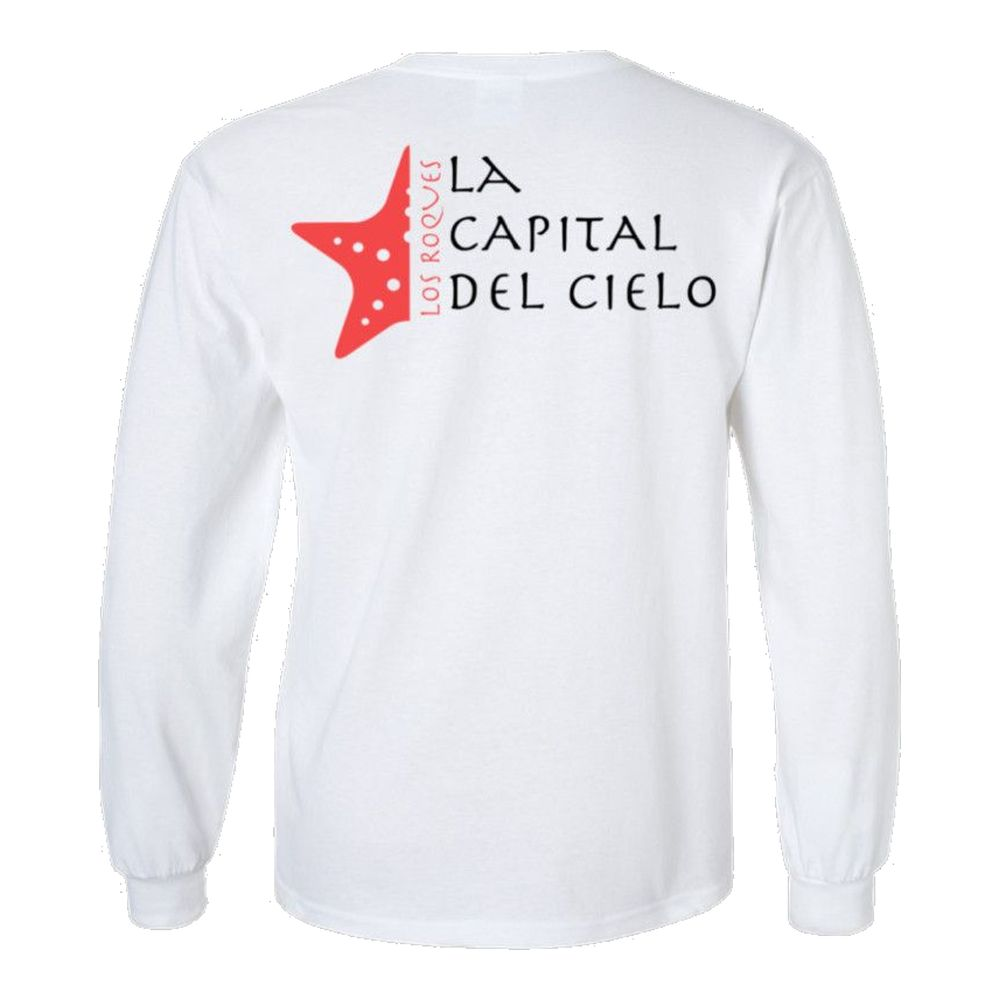
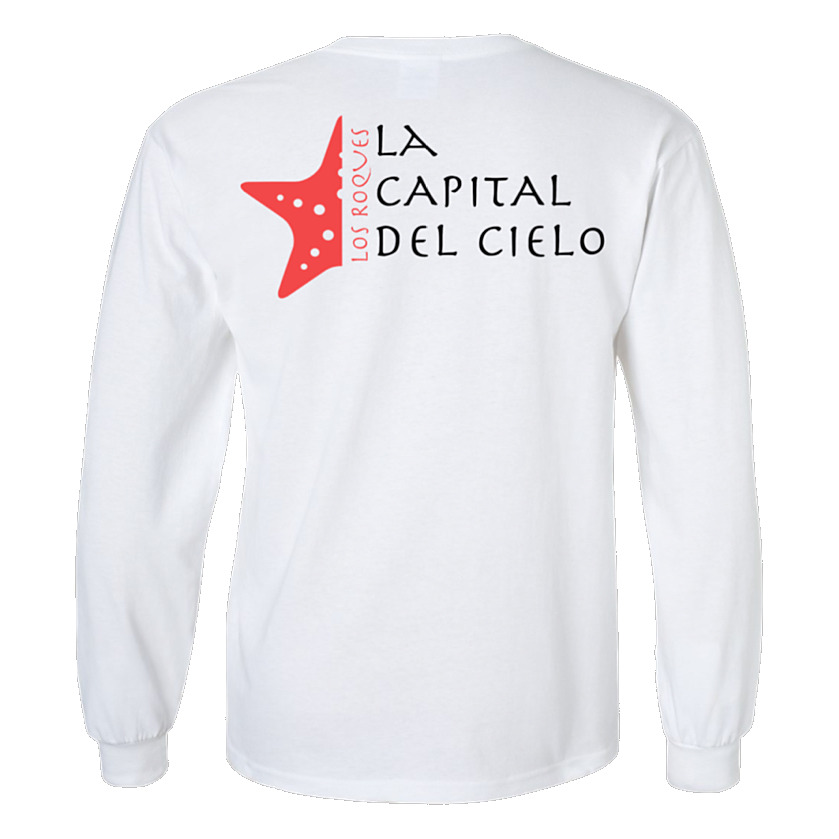
Merchandise: dos camisas en el home con botón a las demás; fotos más nítidas

diff --git a/index.html b/index.html
@@ -35,9 +35,9 @@
   <link rel="preconnect" href="https://fonts.googleapis.com">
   <link rel="preconnect" href="https://fonts.gstatic.com" crossorigin>
   <link href="https://fonts.googleapis.com/css2?family=Macondo&display=swap" rel="stylesheet">
-  <link rel="stylesheet" href="css/base.css?v=20260926m">
-  <link rel="stylesheet" href="css/layout.css?v=20260926m">
-  <link rel="stylesheet" href="css/components.css?v=20260926m">
+  <link rel="stylesheet" href="css/base.css?v=20260926n">
+  <link rel="stylesheet" href="css/layout.css?v=20260926n">
+  <link rel="stylesheet" href="css/components.css?v=20260926n">
 </head>
 <body>
   <!-- Pantalla de carga con el logo (la controla js/main.js) -->
@@ -156,9 +156,9 @@
           <h2 class="h2" data-i18n="merch.title"></h2>
           <p data-i18n="merch.sub"></p>
         </div>
-        <div class="grid merch-grid" id="merch-grid" data-limit="4" aria-live="polite"></div>
+        <div class="grid merch-grid merch-grid--home" id="merch-grid" data-limit="2" aria-live="polite"></div>
         <p class="text-center" style="margin-top: var(--space-5)">
-          <a class="btn btn-outline" href="merchandise.html" data-i18n="merch.ver_todo"></a>
+          <a class="btn btn-primary" href="merchandise.html" data-i18n="merch.ver_todo"></a>
         </p>
       </div>
     </section>
@@ -182,9 +182,9 @@
   <!-- 8. Footer (lo genera js/main.js) -->
   <footer id="site-footer"></footer>
 
-  <script src="js/i18n.js?v=20260926m"></script>
-  <script src="js/main.js?v=20260926m"></script>
-  <script src="js/casas.js?v=20260926m"></script>
-  <script src="js/merch.js?v=20260926m"></script>
+  <script src="js/i18n.js?v=20260926n"></script>
+  <script src="js/main.js?v=20260926n"></script>
+  <script src="js/casas.js?v=20260926n"></script>
+  <script src="js/merch.js?v=20260926n"></script>
 </body>
 </html>

diff --git a/merchandise.html b/merchandise.html
@@ -34,9 +34,9 @@
   <link rel="preconnect" href="https://fonts.googleapis.com">
   <link rel="preconnect" href="https://fonts.gstatic.com" crossorigin>
   <link href="https://fonts.googleapis.com/css2?family=Macondo&display=swap" rel="stylesheet">
-  <link rel="stylesheet" href="css/base.css?v=20260926m">
-  <link rel="stylesheet" href="css/layout.css?v=20260926m">
-  <link rel="stylesheet" href="css/components.css?v=20260926m">
+  <link rel="stylesheet" href="css/base.css?v=20260926n">
+  <link rel="stylesheet" href="css/layout.css?v=20260926n">
+  <link rel="stylesheet" href="css/components.css?v=20260926n">
 </head>
 <body>
   <!-- Pantalla de carga con el logo (la controla js/main.js) -->
@@ -68,9 +68,9 @@
 
   <footer id="site-footer"></footer>
 
-  <script src="js/i18n.js?v=20260926m"></script>
-  <script src="js/main.js?v=20260926m"></script>
-  <script src="js/casas.js?v=20260926m"></script>
-  <script src="js/merch.js?v=20260926m"></script>
+  <script src="js/i18n.js?v=20260926n"></script>
+  <script src="js/main.js?v=20260926n"></script>
+  <script src="js/casas.js?v=20260926n"></script>
+  <script src="js/merch.js?v=20260926n"></script>
 </body>
 </html>

diff --git a/contacto.html b/contacto.html
@@ -34,9 +34,9 @@
   <link rel="preconnect" href="https://fonts.googleapis.com">
   <link rel="preconnect" href="https://fonts.gstatic.com" crossorigin>
   <link href="https://fonts.googleapis.com/css2?family=Macondo&display=swap" rel="stylesheet">
-  <link rel="stylesheet" href="css/base.css?v=20260926m">
-  <link rel="stylesheet" href="css/layout.css?v=20260926m">
-  <link rel="stylesheet" href="css/components.css?v=20260926m">
+  <link rel="stylesheet" href="css/base.css?v=20260926n">
+  <link rel="stylesheet" href="css/layout.css?v=20260926n">
+  <link rel="stylesheet" href="css/components.css?v=20260926n">
 </head>
 <body>
   <!-- Pantalla de carga con el logo (la controla js/main.js) -->
@@ -110,8 +110,8 @@
 
   <footer id="site-footer"></footer>
 
-  <script src="js/i18n.js?v=20260926m"></script>
-  <script src="js/main.js?v=20260926m"></script>
-  <script src="js/casas.js?v=20260926m"></script>
+  <script src="js/i18n.js?v=20260926n"></script>
+  <script src="js/main.js?v=20260926n"></script>
+  <script src="js/casas.js?v=20260926n"></script>
 </body>
 </html>

diff --git a/experiencia.html b/experiencia.html
@@ -34,9 +34,9 @@
   <link rel="preconnect" href="https://fonts.googleapis.com">
   <link rel="preconnect" href="https://fonts.gstatic.com" crossorigin>
   <link href="https://fonts.googleapis.com/css2?family=Macondo&display=swap" rel="stylesheet">
-  <link rel="stylesheet" href="css/base.css?v=20260926m">
-  <link rel="stylesheet" href="css/layout.css?v=20260926m">
-  <link rel="stylesheet" href="css/components.css?v=20260926m">
+  <link rel="stylesheet" href="css/base.css?v=20260926n">
+  <link rel="stylesheet" href="css/layout.css?v=20260926n">
+  <link rel="stylesheet" href="css/components.css?v=20260926n">
 </head>
 <body>
   <!-- Pantalla de carga con el logo (la controla js/main.js) -->
@@ -108,8 +108,8 @@
 
   <footer id="site-footer"></footer>
 
-  <script src="js/i18n.js?v=20260926m"></script>
-  <script src="js/main.js?v=20260926m"></script>
-  <script src="js/casas.js?v=20260926m"></script>
+  <script src="js/i18n.js?v=20260926n"></script>
+  <script src="js/main.js?v=20260926n"></script>
+  <script src="js/casas.js?v=20260926n"></script>
 </body>
 </html>

diff --git a/los-roques.html b/los-roques.html
@@ -34,9 +34,9 @@
   <link rel="preconnect" href="https://fonts.googleapis.com">
   <link rel="preconnect" href="https://fonts.gstatic.com" crossorigin>
   <link href="https://fonts.googleapis.com/css2?family=Macondo&display=swap" rel="stylesheet">
-  <link rel="stylesheet" href="css/base.css?v=20260926m">
-  <link rel="stylesheet" href="css/layout.css?v=20260926m">
-  <link rel="stylesheet" href="css/components.css?v=20260926m">
+  <link rel="stylesheet" href="css/base.css?v=20260926n">
+  <link rel="stylesheet" href="css/layout.css?v=20260926n">
+  <link rel="stylesheet" href="css/components.css?v=20260926n">
 </head>
 <body>
   <!-- Pantalla de carga con el logo (la controla js/main.js) -->
@@ -111,8 +111,8 @@
 
   <footer id="site-footer"></footer>
 
-  <script src="js/i18n.js?v=20260926m"></script>
-  <script src="js/main.js?v=20260926m"></script>
-  <script src="js/casas.js?v=20260926m"></script>
+  <script src="js/i18n.js?v=20260926n"></script>
+  <script src="js/main.js?v=20260926n"></script>
+  <script src="js/casas.js?v=20260926n"></script>
 </body>
 </html>

diff --git a/casa.html b/casa.html
@@ -34,9 +34,9 @@
   <link rel="preconnect" href="https://fonts.googleapis.com">
   <link rel="preconnect" href="https://fonts.gstatic.com" crossorigin>
   <link href="https://fonts.googleapis.com/css2?family=Macondo&display=swap" rel="stylesheet">
-  <link rel="stylesheet" href="css/base.css?v=20260926m">
-  <link rel="stylesheet" href="css/layout.css?v=20260926m">
-  <link rel="stylesheet" href="css/components.css?v=20260926m">
+  <link rel="stylesheet" href="css/base.css?v=20260926n">
+  <link rel="stylesheet" href="css/layout.css?v=20260926n">
+  <link rel="stylesheet" href="css/components.css?v=20260926n">
 </head>
 <body>
   <!-- Pantalla de carga con el logo (la controla js/main.js) -->
@@ -60,8 +60,8 @@
 
   <footer id="site-footer"></footer>
 
-  <script src="js/i18n.js?v=20260926m"></script>
-  <script src="js/main.js?v=20260926m"></script>
-  <script src="js/casas.js?v=20260926m"></script>
+  <script src="js/i18n.js?v=20260926n"></script>
+  <script src="js/main.js?v=20260926n"></script>
+  <script src="js/casas.js?v=20260926n"></script>
 </body>
 </html>

diff --git a/casas.html b/casas.html
@@ -34,9 +34,9 @@
   <link rel="preconnect" href="https://fonts.googleapis.com">
   <link rel="preconnect" href="https://fonts.gstatic.com" crossorigin>
   <link href="https://fonts.googleapis.com/css2?family=Macondo&display=swap" rel="stylesheet">
-  <link rel="stylesheet" href="css/base.css?v=20260926m">
-  <link rel="stylesheet" href="css/layout.css?v=20260926m">
-  <link rel="stylesheet" href="css/components.css?v=20260926m">
+  <link rel="stylesheet" href="css/base.css?v=20260926n">
+  <link rel="stylesheet" href="css/layout.css?v=20260926n">
+  <link rel="stylesheet" href="css/components.css?v=20260926n">
 </head>
 <body>
   <!-- Pantalla de carga con el logo (la controla js/main.js) -->
@@ -75,8 +75,8 @@
 
   <footer id="site-footer"></footer>
 
-  <script src="js/i18n.js?v=20260926m"></script>
-  <script src="js/main.js?v=20260926m"></script>
-  <script src="js/casas.js?v=20260926m"></script>
+  <script src="js/i18n.js?v=20260926n"></script>
+  <script src="js/main.js?v=20260926n"></script>
+  <script src="js/casas.js?v=20260926n"></script>
 </body>
 </html>

diff --git a/js/merch.js b/js/merch.js
@@ -28,7 +28,7 @@
     var msg = I18n.t('merch.wa').replace('{nombre}', p.nombre.toUpperCase()).replace('{precio}', precio);
     return '' +
       '<article class="product" data-reveal>' +
-        '<div class="product-media"><img src="' + esc(p.imagen) + '" alt="' + esc(p.nombre) + '" loading="lazy" decoding="async" width="1000" height="1000"></div>' +
+        '<div class="product-media"><img src="' + esc(p.imagen) + '" alt="' + esc(p.nombre) + '" loading="lazy" decoding="async" width="900" height="900"></div>' +
         '<div class="product-body">' +
           '<h3 class="product-name">' + esc(p.nombre) + '</h3>' +
           '<p class="product-type">' + esc(I18n.pick(p.tipo)) + '</p>' +

diff --git a/css/components.css b/css/components.css
@@ -517,3 +517,7 @@ html.is-loading .hero-logo img { animation-play-state: paused; }
 .map-frame iframe { width: 100%; height: 100%; border: 0; display: block; }
 @media (max-width: 699px) { .map-frame { aspect-ratio: 4 / 5; max-height: 420px; } }
 .map-link { margin-top: var(--space-2); }
+/* Home: solo dos camisas, centradas */
+.merch-grid--home { grid-template-columns: repeat(2, 1fr); max-width: 760px; margin-inline: auto; }
+@media (min-width: 960px) { .merch-grid--home { grid-template-columns: repeat(2, 1fr); } }
+.product-media img { image-rendering: auto; }
